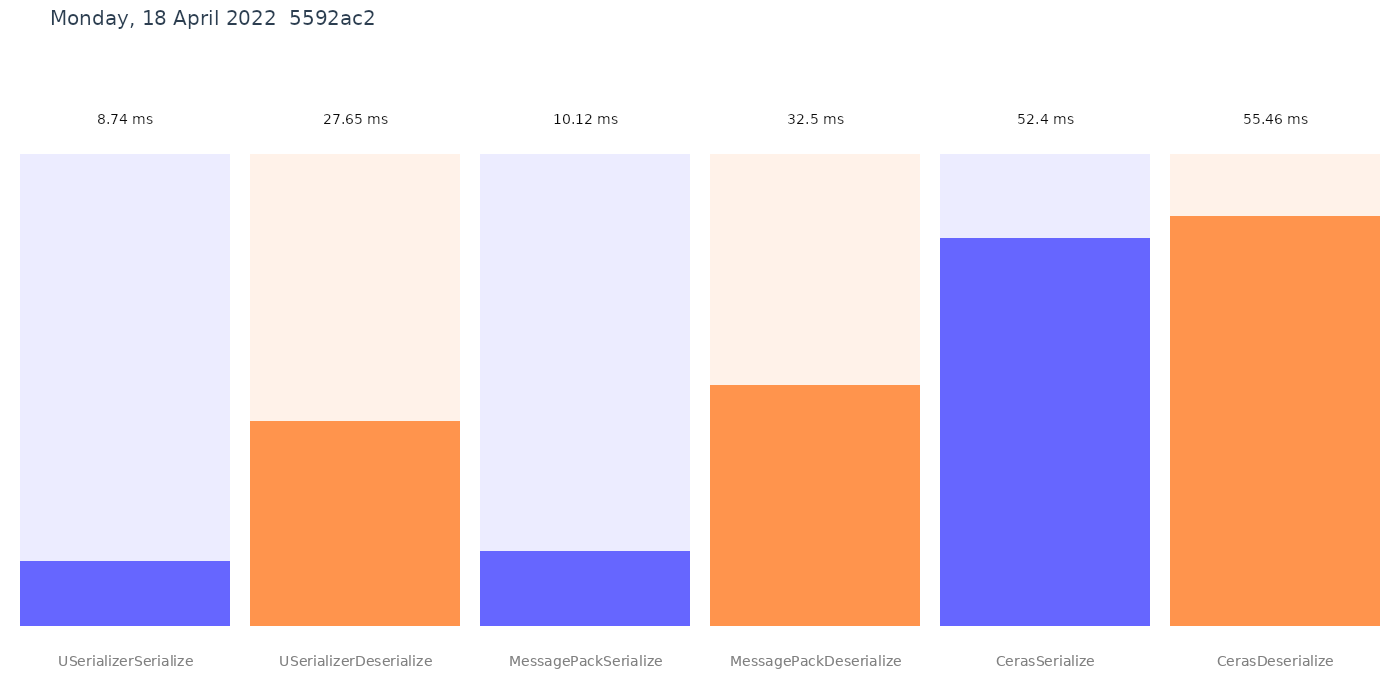
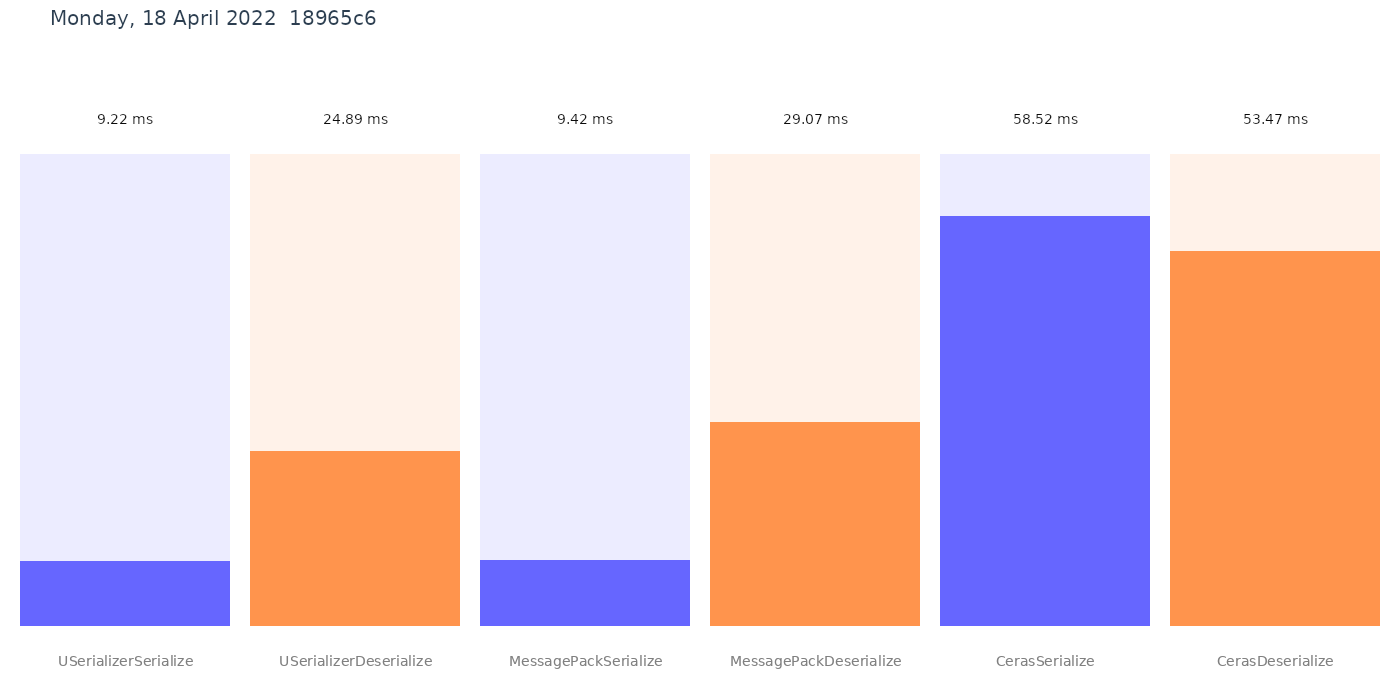
deploy: 18965c613637066386f9913b1e5e7d16511f8b33

diff --git a/performance.md b/performance.md
@@ -1,7 +1,7 @@
 ``` ini
 
 BenchmarkDotNet=v0.12.1, OS=ubuntu 20.04
-Intel Xeon CPU E5-2673 v3 2.40GHz, 1 CPU, 2 logical and 2 physical cores
+Intel Xeon Platinum 8171M CPU 2.60GHz, 1 CPU, 2 logical and 2 physical cores
 .NET Core SDK=5.0.407
   [Host]   : .NET Core 5.0.16 (CoreCLR 5.0.1622.16705, CoreFX 5.0.1622.16705), X64 RyuJIT
   ShortRun : .NET Core 5.0.16 (CoreCLR 5.0.1622.16705, CoreFX 5.0.1622.16705), X64 RyuJIT
@@ -10,11 +10,11 @@ Job=ShortRun  IterationCount=3  LaunchCount=1
 WarmupCount=3  
 
 ```
-|                 Method |      Mean |      Error |    StdDev |
-|----------------------- |----------:|-----------:|----------:|
-|   USerializerSerialize |  8.735 ms |  0.4834 ms | 0.0265 ms |
-| USerializerDeserialize | 27.654 ms | 10.6957 ms | 0.5863 ms |
-|   MessagePackSerialize | 10.116 ms |  8.3918 ms | 0.4600 ms |
-| MessagePackDeserialize | 32.502 ms | 21.1293 ms | 1.1582 ms |
-|         CerasSerialize | 52.403 ms | 11.5287 ms | 0.6319 ms |
-|       CerasDeserialize | 55.457 ms | 20.2564 ms | 1.1103 ms |
+|                 Method |      Mean |     Error |    StdDev |
+|----------------------- |----------:|----------:|----------:|
+|   USerializerSerialize |  9.224 ms | 0.4532 ms | 0.0248 ms |
+| USerializerDeserialize | 24.894 ms | 1.7214 ms | 0.0944 ms |
+|   MessagePackSerialize |  9.422 ms | 0.5197 ms | 0.0285 ms |
+| MessagePackDeserialize | 29.073 ms | 6.0710 ms | 0.3328 ms |
+|         CerasSerialize | 58.520 ms | 0.8890 ms | 0.0487 ms |
+|       CerasDeserialize | 53.473 ms | 4.0570 ms | 0.2224 ms |
